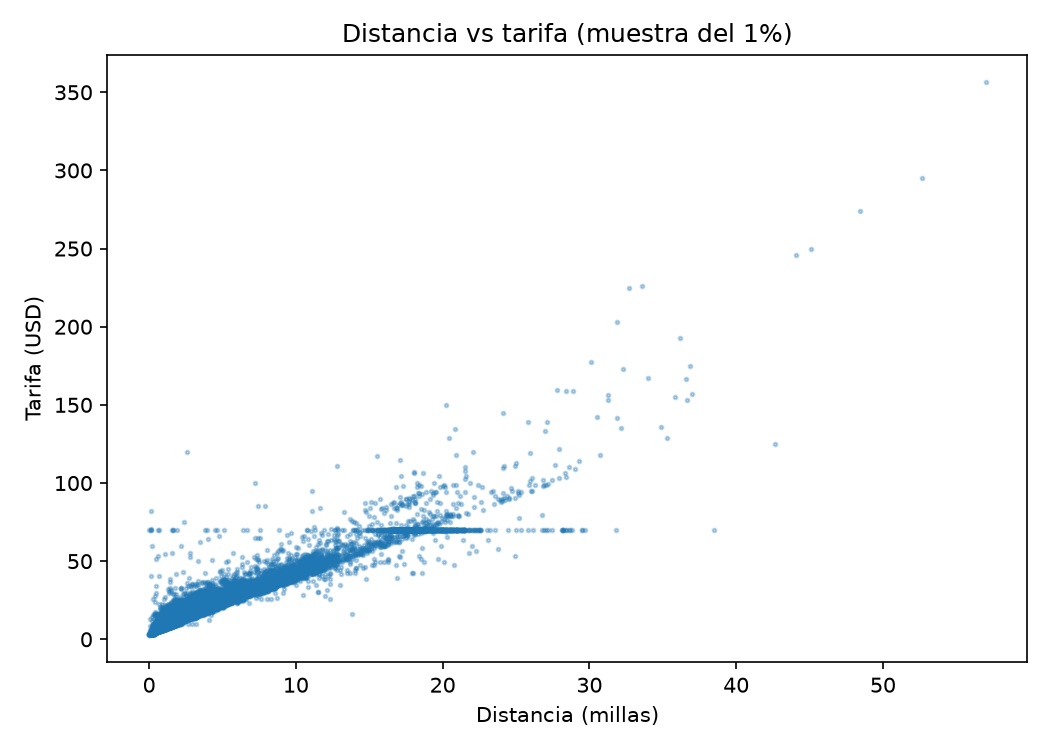
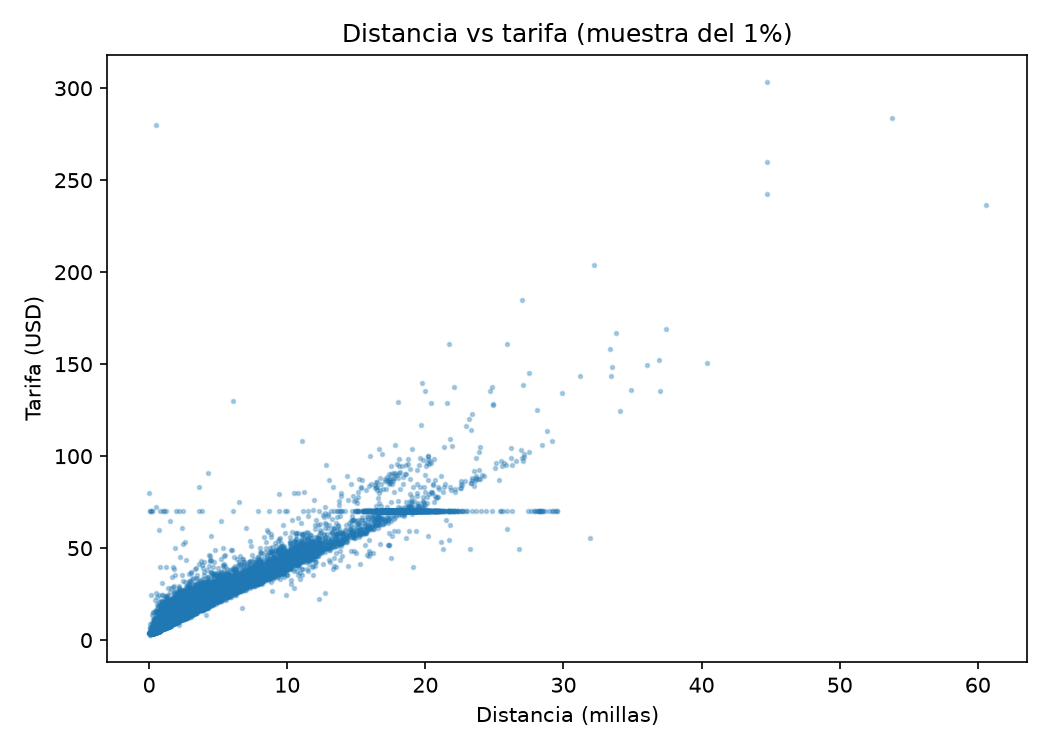
Log de limpieza, orden de dias y nombres de zonas

diff --git a/batch_analysis.py b/batch_analysis.py
@@ -3,8 +3,12 @@ Tarea 3 - Big Data (UNAD) - Procesamiento en batch con PySpark
 Dataset: NYC Yellow Taxi Trip Records (formato Parquet)
 
 Uso:
-    python batch_analysis.py data/yellow_tripdata_2024-01.parquet
+    python batch_analysis.py data/yellow_tripdata_2024-01.parquet [data/taxi_zone_lookup.csv]
+
+El segundo argumento (catalogo de zonas de la TLC) es opcional: si existe,
+las zonas se muestran con su nombre en lugar de solo el identificador.
 """
+import csv
 import os
 import sys
 
@@ -15,8 +19,16 @@ from pyspark.sql import SparkSession
 from pyspark.sql import functions as F
 
 RUTA = sys.argv[1] if len(sys.argv) > 1 else "data/yellow_tripdata_2024-01.parquet"
+RUTA_ZONAS = sys.argv[2] if len(sys.argv) > 2 else "data/taxi_zone_lookup.csv"
 SALIDA = "resultados"
 os.makedirs(SALIDA, exist_ok=True)
+
+# Rangos de limpieza (justificacion en el README)
+DIST_MAX_MILLAS = 100      # un viaje urbano nunca llega a esa distancia
+TARIFA_MAX_USD = 500       # tarifas mayores son casi seguro errores de captura
+PASAJEROS_MIN, PASAJEROS_MAX = 1, 6   # capacidad maxima de un taxi
+DURACION_MIN, DURACION_MAX = 1, 180   # minutos
+VELOCIDAD_MAX_KMH = 120    # limite fisico razonable en ciudad
 
 spark = (
     SparkSession.builder.appName("Tarea3_Batch_Taxis")
@@ -31,22 +43,38 @@ total_inicial = df.count()
 print(f"\n=== CARGA ===\nRegistros iniciales: {total_inicial:,}")
 df.printSchema()
 
-# ---------------------------------------------------------------- 2. LIMPIEZA
 df = df.select(
     "tpep_pickup_datetime", "tpep_dropoff_datetime", "passenger_count",
     "trip_distance", "PULocationID", "payment_type",
     "fare_amount", "tip_amount", "total_amount",
 )
 
-df = df.dropna()          # elimina nulos
-df = df.dropDuplicates()  # elimina duplicados
+# ---------------------------------------------------------------- 2. LIMPIEZA
+# Se registra cuantos registros elimina cada paso.
+log = []
+restantes = total_inicial
 
-# Filtros de calidad: valores imposibles o atipicos
-df = df.filter(
-    (F.col("trip_distance") > 0) & (F.col("trip_distance") < 100)
-    & (F.col("fare_amount") > 0) & (F.col("total_amount") > 0)
-    & (F.col("passenger_count") > 0) & (F.col("passenger_count") <= 6)
-)
+
+def paso(nombre, nuevo_df):
+    """Aplica un paso de limpieza y registra cuantos registros elimino."""
+    global restantes
+    nuevo_df = nuevo_df.cache()
+    n = nuevo_df.count()
+    log.append((nombre, restantes - n, n))
+    restantes = n
+    return nuevo_df
+
+
+df = paso("Eliminar nulos", df.dropna())
+df = paso("Eliminar duplicados", df.dropDuplicates())
+df = paso(f"Distancia entre 0 y {DIST_MAX_MILLAS} millas",
+          df.filter((F.col("trip_distance") > 0) & (F.col("trip_distance") < DIST_MAX_MILLAS)))
+df = paso(f"Tarifas entre 0 y {TARIFA_MAX_USD} USD",
+          df.filter((F.col("fare_amount") > 0) & (F.col("fare_amount") < TARIFA_MAX_USD)
+                    & (F.col("total_amount") > 0) & (F.col("total_amount") < TARIFA_MAX_USD)))
+df = paso(f"Pasajeros entre {PASAJEROS_MIN} y {PASAJEROS_MAX}",
+          df.filter((F.col("passenger_count") >= PASAJEROS_MIN)
+                    & (F.col("passenger_count") <= PASAJEROS_MAX)))
 
 # ------------------------------------------------------------ 3. TRANSFORMACION
 df = (
@@ -55,17 +83,32 @@ df = (
         (F.unix_timestamp("tpep_dropoff_datetime")
          - F.unix_timestamp("tpep_pickup_datetime")) / 60,
     )
-    .filter((F.col("duracion_min") > 1) & (F.col("duracion_min") < 180))
     .withColumn("hora", F.hour("tpep_pickup_datetime"))
     .withColumn("dia_semana", F.date_format("tpep_pickup_datetime", "E"))
-    .withColumn("velocidad_kmh", F.col("trip_distance") * 1.609 / (F.col("duracion_min") / 60))
-    .filter(F.col("velocidad_kmh") < 120)
+    # Lunes=1 ... Domingo=7 (dayofweek de Spark: Domingo=1)
+    .withColumn("dia_num", ((F.dayofweek("tpep_pickup_datetime") + 5) % 7) + 1)
+    .withColumn("velocidad_kmh",
+                F.col("trip_distance") * 1.609 / (F.col("duracion_min") / 60))
 )
-df.cache()
+df = paso(f"Duracion entre {DURACION_MIN} y {DURACION_MAX} minutos",
+          df.filter((F.col("duracion_min") >= DURACION_MIN)
+                    & (F.col("duracion_min") <= DURACION_MAX)))
+df = paso(f"Velocidad menor a {VELOCIDAD_MAX_KMH} km/h",
+          df.filter(F.col("velocidad_kmh") < VELOCIDAD_MAX_KMH))
 
-total_final = df.count()
-print(f"\n=== LIMPIEZA ===\nRegistros tras limpieza: {total_final:,}")
-print(f"Registros descartados: {total_inicial - total_final:,}")
+total_final = restantes
+print("\n=== LIMPIEZA: REGISTROS ELIMINADOS POR PASO ===")
+print(f"{'Paso':<42}{'Eliminados':>12}{'Restantes':>12}")
+for nombre, elim, rest in log:
+    print(f"{nombre:<42}{elim:>12,}{rest:>12,}")
+print(f"\nTotal descartado: {total_inicial - total_final:,} "
+      f"({(total_inicial - total_final) / total_inicial:.1%} del original)")
+print(f"Registros finales: {total_final:,}")
+
+with open(f"{SALIDA}/log_limpieza.csv", "w", newline="", encoding="utf-8") as f:
+    w = csv.writer(f)
+    w.writerow(["paso", "eliminados", "restantes"])
+    w.writerows(log)
 
 # ------------------------------------------------------------------- 4. EDA
 print("\n=== ESTADISTICAS DESCRIPTIVAS ===")
@@ -75,19 +118,28 @@ viajes_hora = df.groupBy("hora").count().orderBy("hora")
 print("=== VIAJES POR HORA ===")
 viajes_hora.show(24)
 
-orden_dias = ["Mon", "Tue", "Wed", "Thu", "Fri", "Sat", "Sun"]
-viajes_dia = df.groupBy("dia_semana").agg(
-    F.count("*").alias("viajes"),
-    F.round(F.avg("total_amount"), 2).alias("tarifa_promedio"),
+viajes_dia = (
+    df.groupBy("dia_num", "dia_semana")
+    .agg(F.count("*").alias("viajes"),
+         F.round(F.avg("total_amount"), 2).alias("tarifa_promedio"))
+    .orderBy("dia_num")   # Lunes a Domingo
 )
-print("=== VIAJES POR DIA DE LA SEMANA ===")
+print("=== VIAJES POR DIA DE LA SEMANA (Lunes a Domingo) ===")
 viajes_dia.show()
 
-top_zonas = (
-    df.groupBy("PULocationID").count().orderBy(F.desc("count")).limit(10)
-)
-print("=== TOP 10 ZONAS DE RECOGIDA ===")
-top_zonas.show()
+top_zonas = df.groupBy("PULocationID").count().orderBy(F.desc("count")).limit(10)
+if os.path.exists(RUTA_ZONAS):
+    zonas = spark.read.csv(RUTA_ZONAS, header=True, inferSchema=True)
+    top_zonas = (
+        top_zonas.join(zonas, top_zonas.PULocationID == zonas.LocationID, "left")
+        .select("PULocationID", "Borough", "Zone", "count")
+        .orderBy(F.desc("count"))
+    )
+    print("=== TOP 10 ZONAS DE RECOGIDA ===")
+else:
+    print(f"(No se encontro {RUTA_ZONAS}: se muestran solo los identificadores)")
+    print("=== TOP 10 ZONAS DE RECOGIDA ===")
+top_zonas.show(truncate=False)
 
 pagos = df.groupBy("payment_type").agg(
     F.count("*").alias("viajes"),
@@ -100,7 +152,6 @@ print("Correlacion distancia vs tarifa:",
       round(df.stat.corr("trip_distance", "fare_amount"), 3))
 
 # ------------------------------------------------------- 5. VISUALIZACION
-# Los agregados son pequenos, por eso es seguro pasarlos a pandas.
 ph = viajes_hora.toPandas()
 plt.figure(figsize=(9, 4))
 plt.bar(ph["hora"], ph["count"], color="#1f77b4")
@@ -113,8 +164,6 @@ plt.savefig(f"{SALIDA}/viajes_por_hora.png", dpi=150)
 plt.close()
 
 pd_dia = viajes_dia.toPandas()
-pd_dia["dia_semana"] = pd_dia["dia_semana"].astype("category").cat.set_categories(orden_dias)
-pd_dia = pd_dia.sort_values("dia_semana")
 plt.figure(figsize=(8, 4))
 plt.bar(pd_dia["dia_semana"], pd_dia["viajes"], color="#ff7f0e")
 plt.title("Viajes de taxi por dia de la semana")
@@ -125,9 +174,11 @@ plt.savefig(f"{SALIDA}/viajes_por_dia.png", dpi=150)
 plt.close()
 
 pz = top_zonas.toPandas()
-plt.figure(figsize=(8, 4))
-plt.barh(pz["PULocationID"].astype(str), pz["count"], color="#2ca02c")
-plt.title("Top 10 zonas de recogida (PULocationID)")
+etiquetas = (pz["Zone"].astype(str) if "Zone" in pz.columns
+             else pz["PULocationID"].astype(str))
+plt.figure(figsize=(9, 5))
+plt.barh(etiquetas, pz["count"], color="#2ca02c")
+plt.title("Top 10 zonas de recogida")
 plt.xlabel("Cantidad de viajes")
 plt.gca().invert_yaxis()
 plt.tight_layout()
@@ -144,5 +195,5 @@ plt.tight_layout()
 plt.savefig(f"{SALIDA}/distancia_vs_tarifa.png", dpi=150)
 plt.close()
 
-print(f"\nGraficas guardadas en la carpeta '{SALIDA}/'")
+print(f"\nGraficas y log de limpieza guardados en la carpeta '{SALIDA}/'")
 spark.stop()

diff --git a/README.md b/README.md
@@ -11,44 +11,63 @@ oferta de vehículos según la demanda.
 
 ## Dataset
 
-- Nombre: NYC Yellow Taxi Trip Records
+- Nombre: NYC Yellow Taxi Trip Records (enero 2024)
 - Fuente: NYC Taxi & Limousine Commission (TLC)
-- Formato: Parquet (un archivo mensual tiene más de 2 millones de registros)
-- Descarga: https://www.nyc.gov/site/tlc/about/tlc-trip-record-data.page
+- Formato: Parquet, 2.964.624 registros y 19 columnas
+- Página de descarga: https://www.nyc.gov/site/tlc/about/tlc-trip-record-data.page
+- Catálogo de zonas (opcional, traduce los identificadores a nombres): `taxi_zone_lookup.csv`,
+  disponible en la misma página de la TLC.
 
-Ejemplo (enero 2024):
+Descarga en Windows (cmd):
 
-```bash
-mkdir -p data
-wget -P data https://d37ci6vzurychx.cloudfront.net/trip-data/yellow_tripdata_2024-01.parquet
+```
+mkdir data
+curl -L -C - -o data\yellow_tripdata_2024-01.parquet https://d37ci6vzurychx.cloudfront.net/trip-data/yellow_tripdata_2024-01.parquet
+curl -L -o data\taxi_zone_lookup.csv https://d37ci6vzurychx.cloudfront.net/misc/taxi_zone_lookup.csv
 ```
 
 ## Requisitos
 
 - Python 3.9 o superior
-- Java 8, 11 o 17 (necesario para Spark)
+- Java 17 (con Java 26 Spark falla al iniciar: `ClassNotFoundException: jdk.internal.ref.Cleaner`)
 
-```bash
+```
+python -m venv venv
+venv\Scripts\activate
 pip install -r requirements.txt
 ```
 
 ## Ejecución
 
-```bash
-python batch_analysis.py data/yellow_tripdata_2024-01.parquet
+```
+python batch_analysis.py data\yellow_tripdata_2024-01.parquet data\taxi_zone_lookup.csv
 ```
 
-Las gráficas se guardan en la carpeta `resultados/`.
+El segundo argumento es opcional. Los resultados (gráficas y `log_limpieza.csv`) se guardan en `resultados/`.
 
 ## Qué hace el código
 
 1. **Carga** del archivo Parquet con `spark.read.parquet`.
-2. **Limpieza**: elimina nulos y duplicados, y filtra valores imposibles (distancias, tarifas,
-   pasajeros y duraciones fuera de rango).
-3. **Transformación**: crea las columnas `duracion_min`, `hora`, `dia_semana` y `velocidad_kmh`.
-4. **EDA**: estadísticas descriptivas, viajes por hora y por día, top 10 de zonas, método de
-   pago y correlación distancia vs. tarifa.
-5. **Visualización**: cuatro gráficas con matplotlib guardadas en `resultados/`.
+2. **Limpieza** en pasos, registrando cuántos registros elimina cada uno (tabla impresa y
+   guardada en `resultados/log_limpieza.csv`).
+3. **Transformación**: columnas `duracion_min`, `hora`, `dia_semana`, `dia_num` y `velocidad_kmh`.
+4. **EDA**: estadísticas descriptivas, viajes por hora, por día (de lunes a domingo), top 10 de
+   zonas, método de pago y correlación distancia vs. tarifa.
+5. **Visualización**: cuatro gráficas con matplotlib.
+
+## Criterios de limpieza
+
+| Paso | Criterio | Justificación |
+|------|----------|---------------|
+| Nulos y duplicados | Se eliminan | Registros incompletos o repetidos distorsionan los conteos |
+| Distancia | 0 < d < 100 millas | Una distancia de 0 no es un viaje; más de 100 millas es inusual en un servicio urbano |
+| Tarifa y total | Entre 0 y 500 USD | Valores negativos o en 0 son ajustes o errores; sobre 500 se consideran errores de captura |
+| Pasajeros | De 1 a 6 | 0 indica dato no ingresado; 6 es la capacidad máxima de un taxi |
+| Duración | De 1 a 180 minutos | Menos de 1 minuto suele ser una cancelación; más de 3 horas es poco realista en la ciudad |
+| Velocidad | Menor a 120 km/h | Por encima no es físicamente razonable en tráfico urbano |
+
+Los umbrales son decisiones de criterio del análisis, definidas como constantes al inicio del script
+para poder ajustarlas.
 
 ## Estructura
 
@@ -58,7 +77,7 @@ Las gráficas se guardan en la carpeta `resultados/`.
 ├── requirements.txt
 ├── README.md
 ├── data/          (no se sube al repositorio)
-└── resultados/    (gráficas generadas)
+└── resultados/    (gráficas y log de limpieza)
 ```
 
 ## Autor
